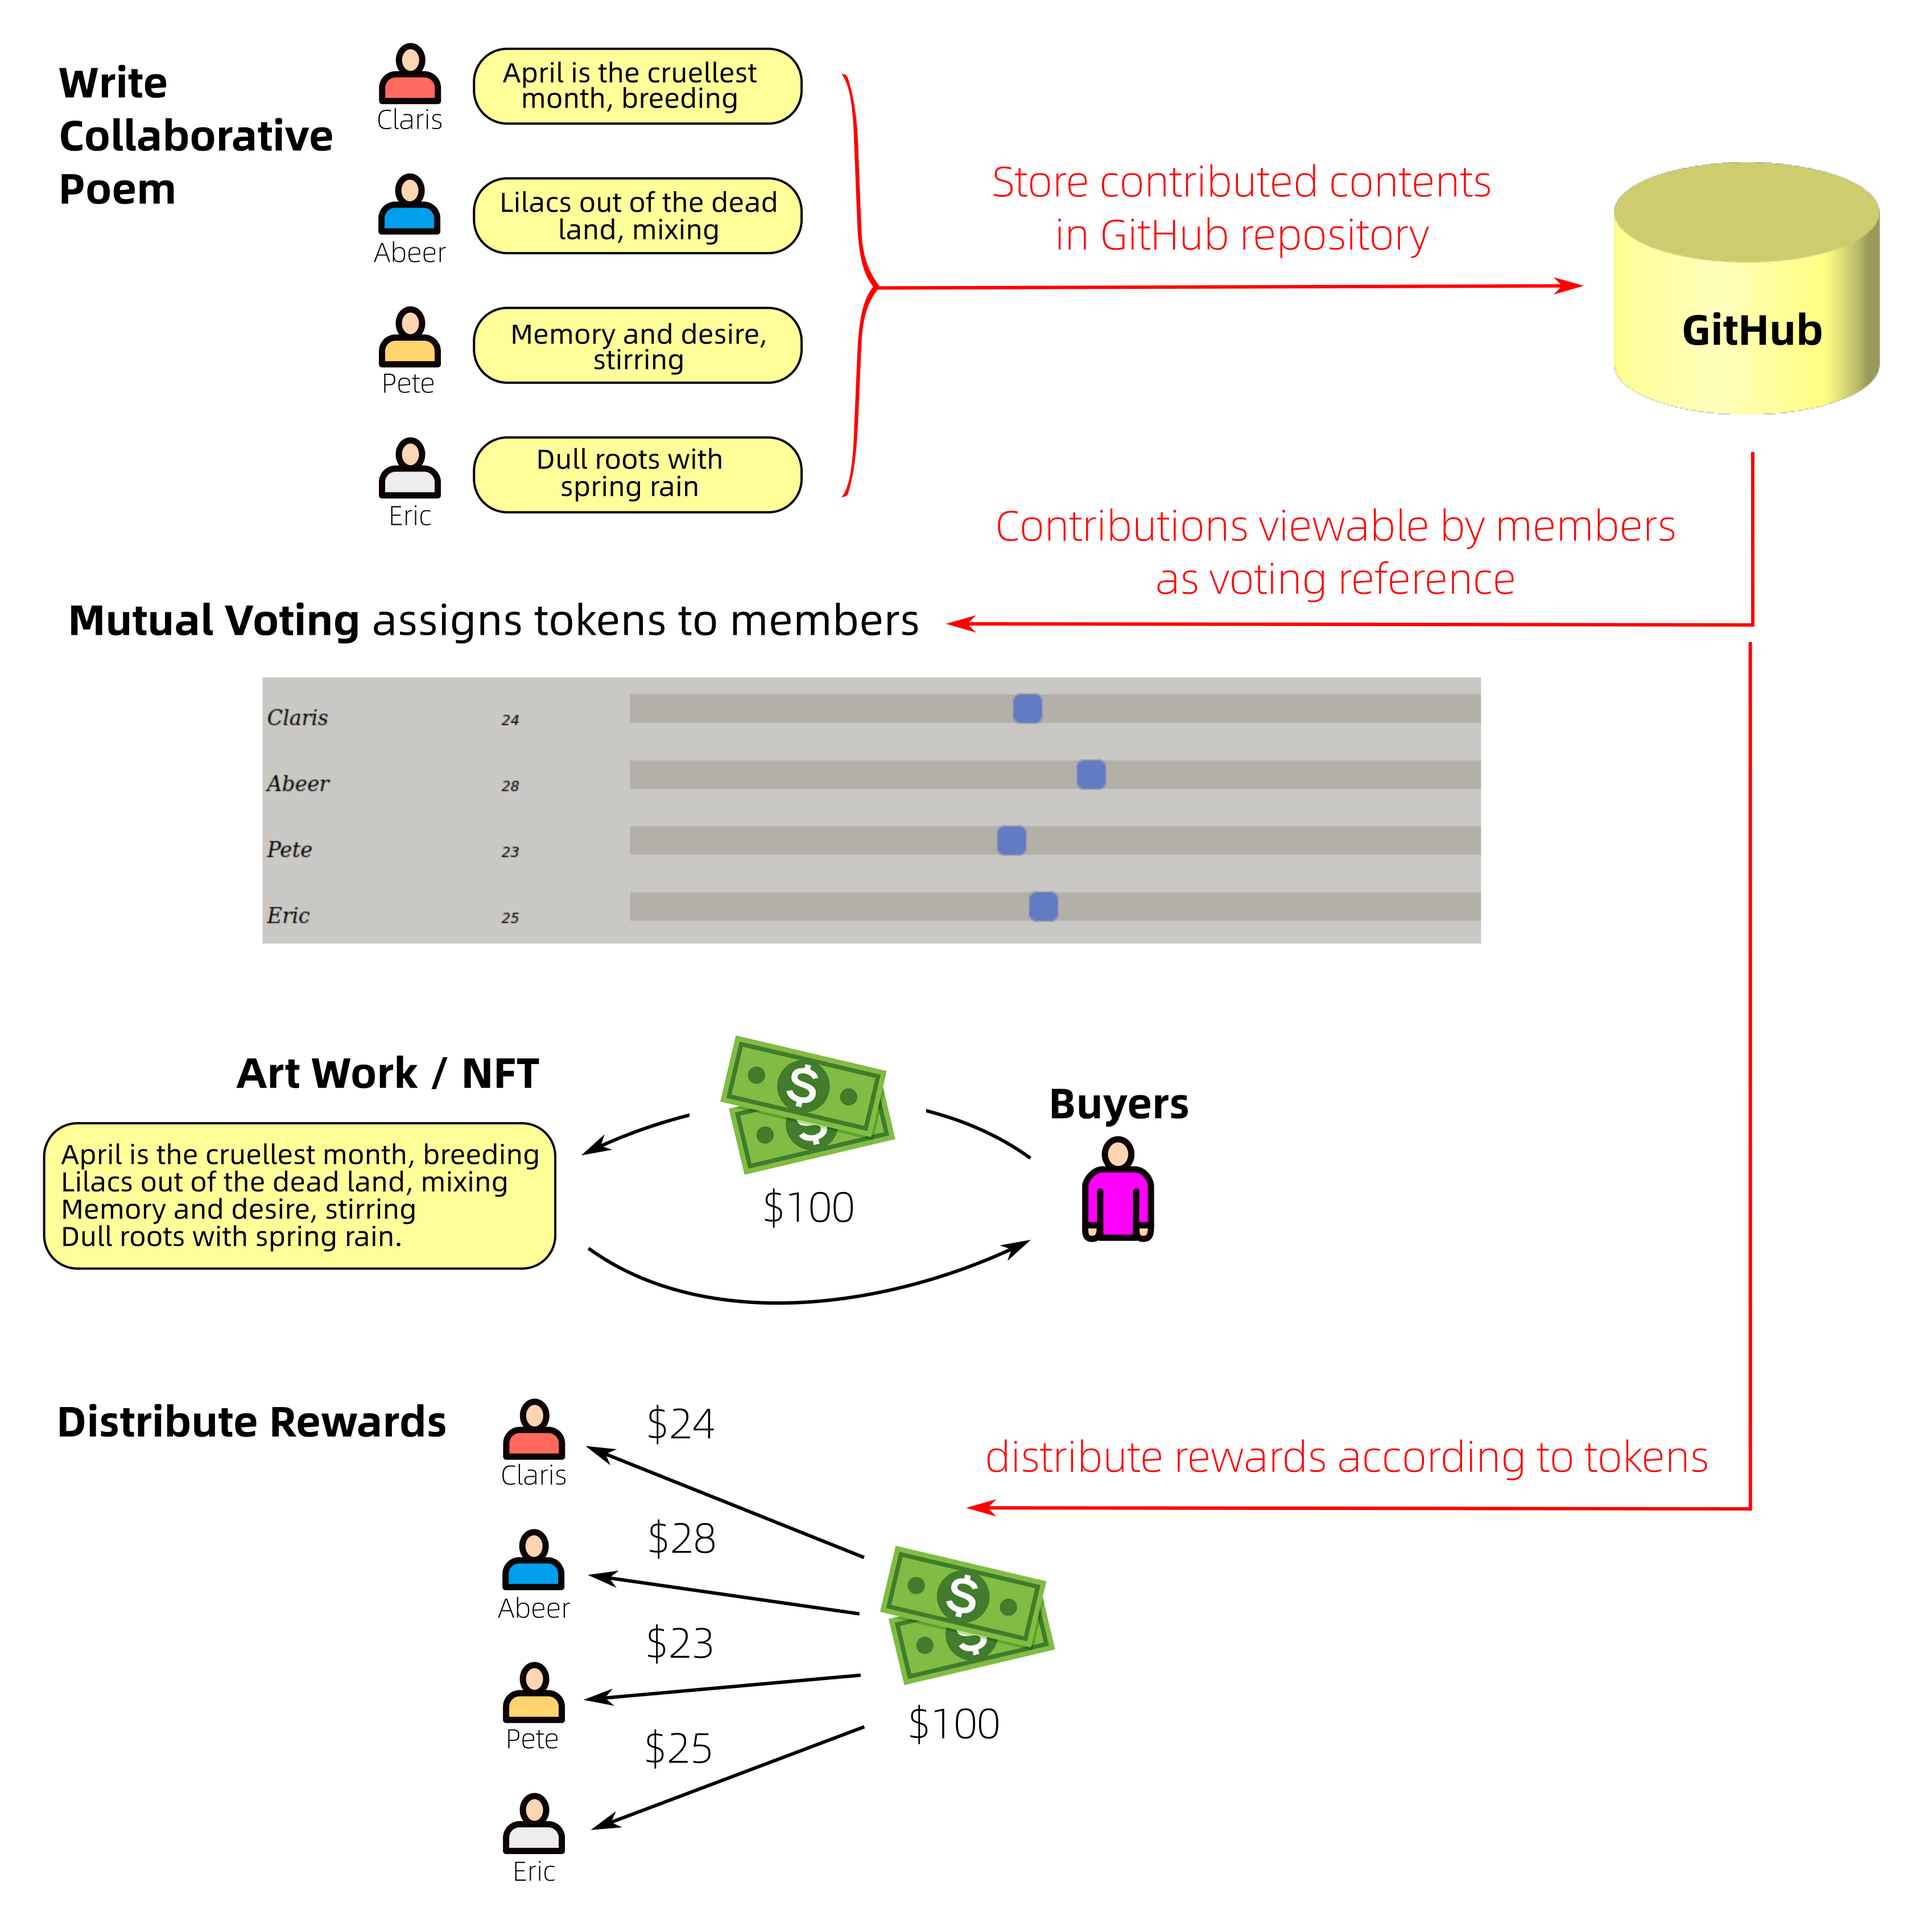
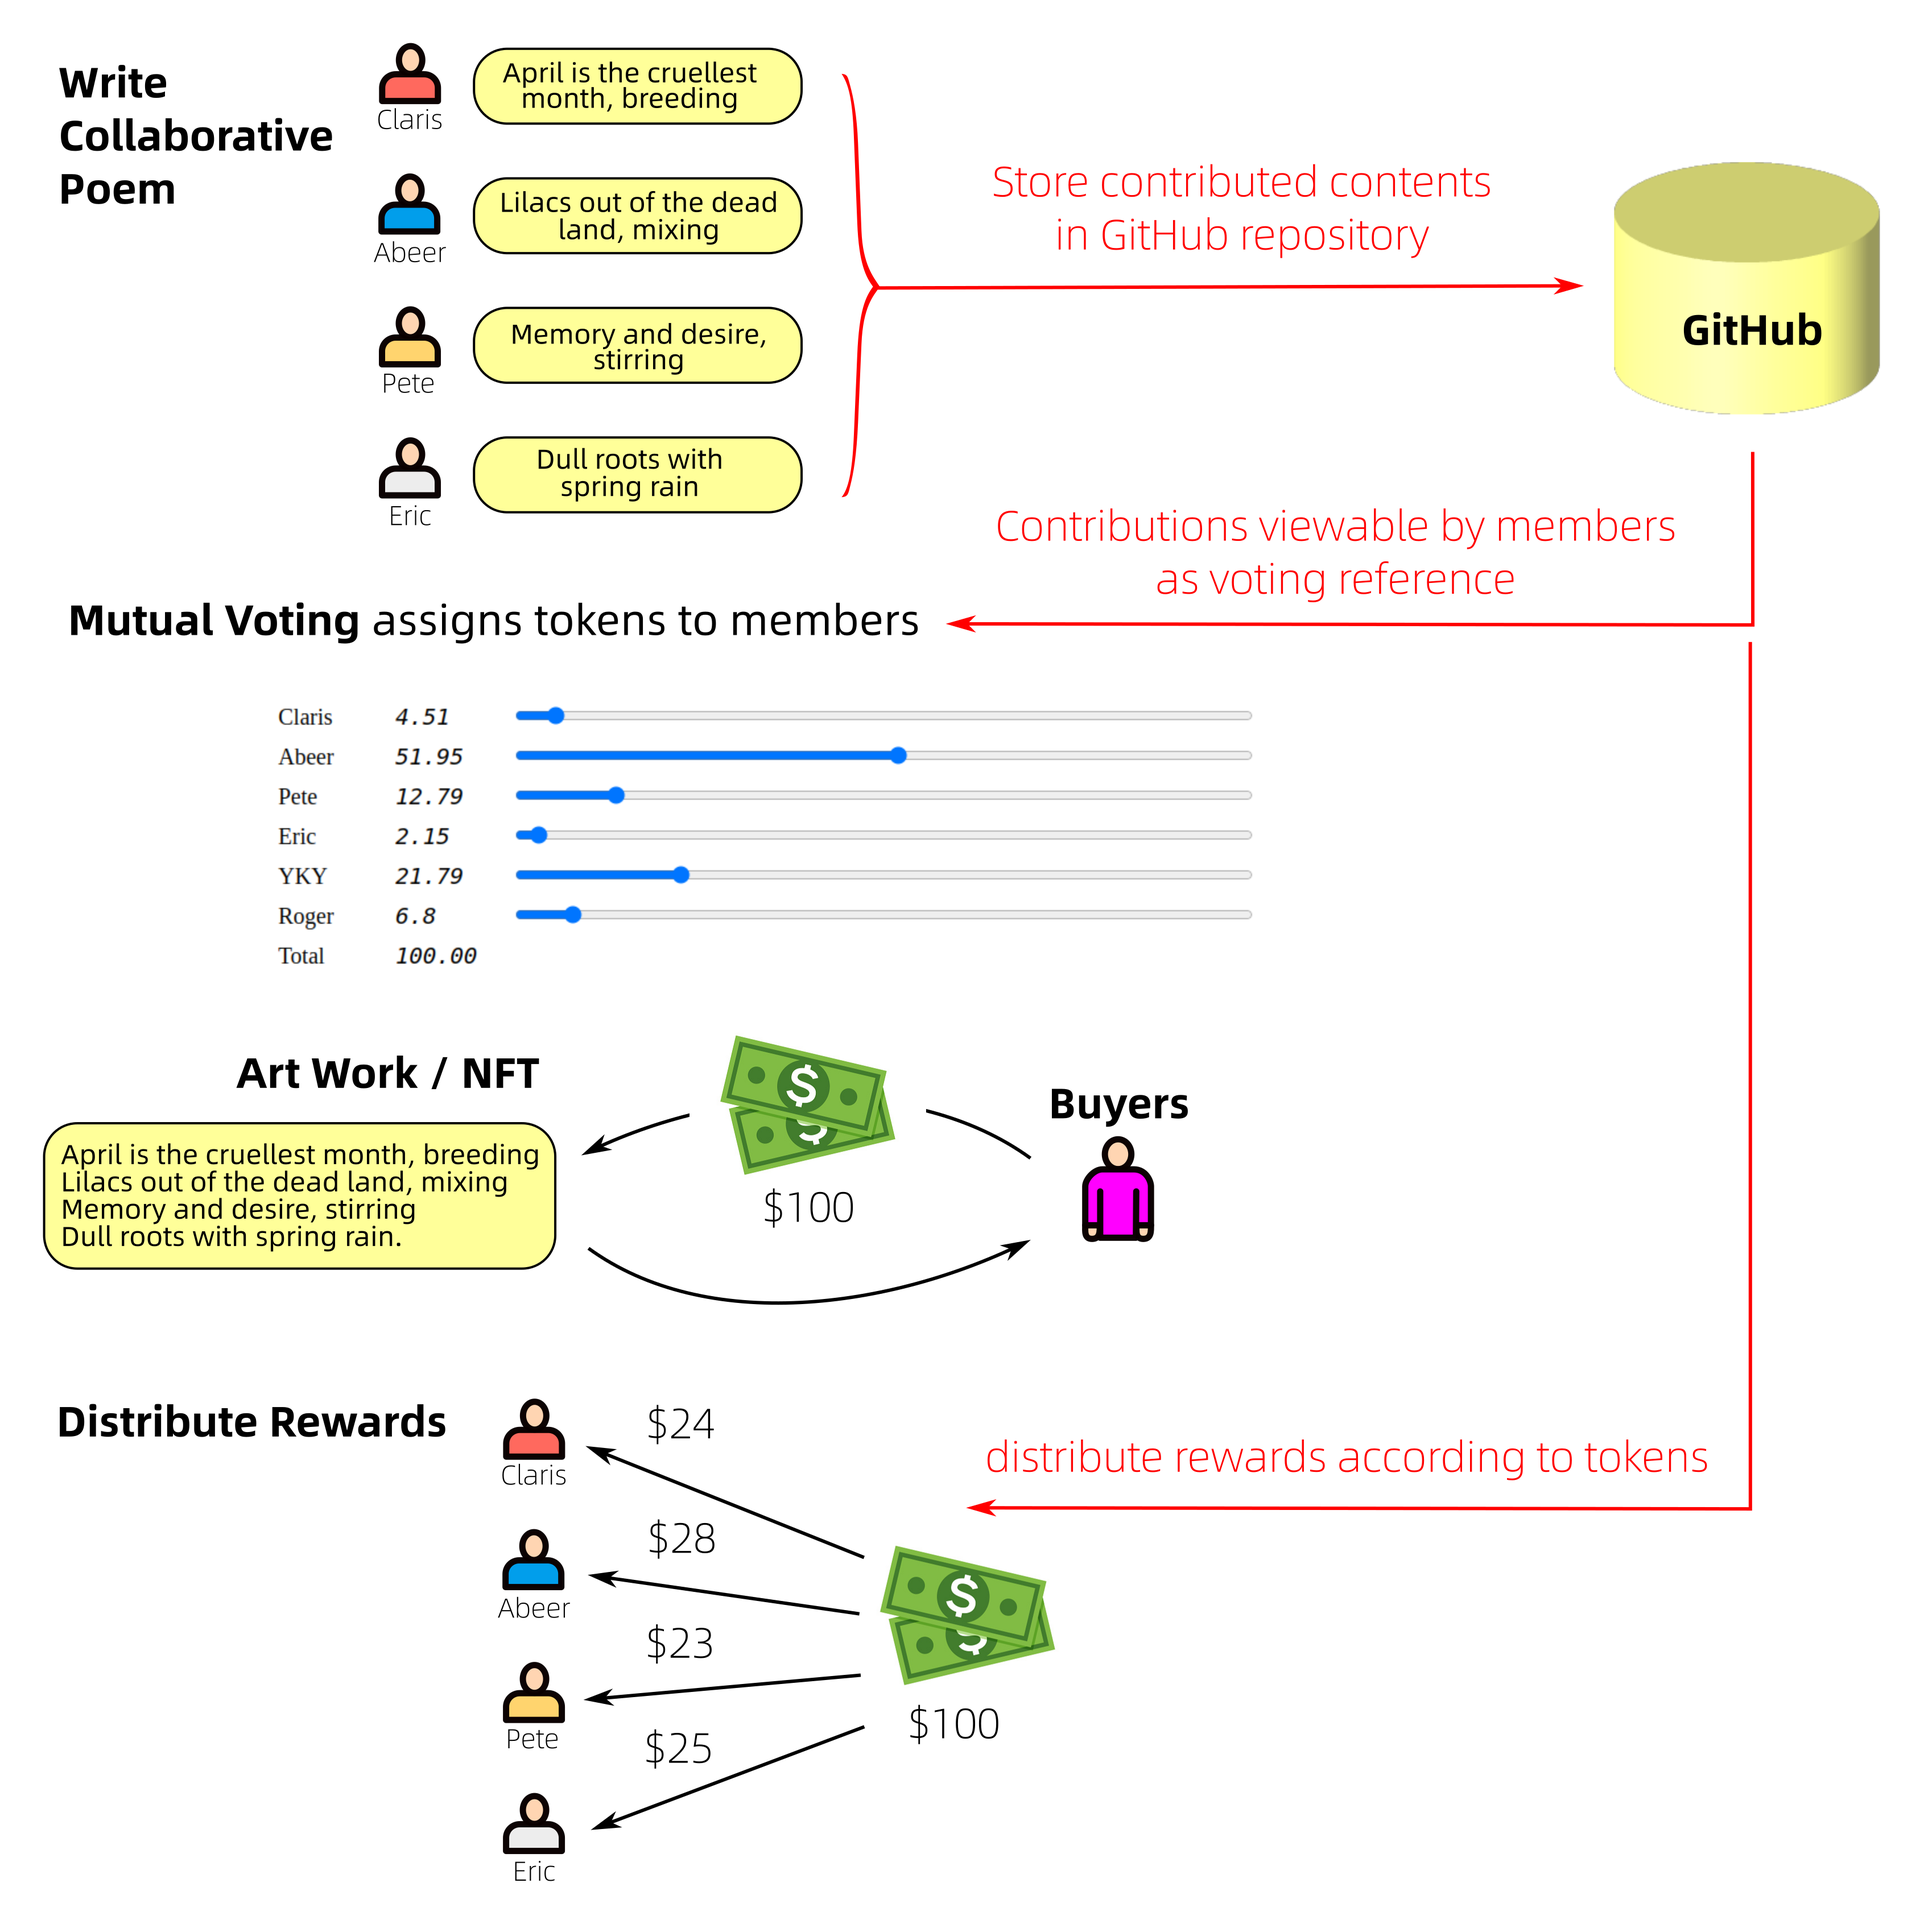
new-Github-users, bilingual

Changed region(s): [[0.1242, 0.3414, 0.7762, 0.4966]]

diff --git a/new-Github-users.html b/new-Github-users.html
@@ -1,0 +1,63 @@
+<!DOCTYPE html>
+<html lang="zh-Hans">
+
+<head>
+	<meta charset="UTF-8">
+	<title>Instructions for New Github Users</title>
+	<link rel="stylesheet" href="css/style.css">
+	<script src="http://code.jquery.com/jquery-latest.min.js"></script>
+	<script src="js/language-switcher.js" defer></script>
+</head>
+
+<body>
+
+<img src="images/crossing-the-snow-2.jpg">
+
+<div>
+<h1 lang="zh" style="display:inline-block;">渡过雪原 &mdash; Github 新使用者 指南</h1>
+<h1 lang="en" style="display:inline-block;">Snow Crossing &mdash; Guide to New Github Users</h1>
+<button id="switch-lang" style="margin-left:100px; font-size:20px;">中文 / English</button>
+</div>
+
+<hr>
+
+<h2 lang="zh">如何注册 GitHub</h2>
+<h2 lang="en">How to register GitHub</h2>
+
+	<ul lang="zh" style="list-style-type:disc">
+		<li>Visit <a href="https://www.github.com">https://www.github.com</a></li>
+		<li>注册户口（请自行按指示完成这步）</li>
+		<li>制造个人密码：</li>
+		<ul style="list-style-type:circle">
+			<li>在右上角 点击自己的 icon，再点击菜单里的 "settings"</li>
+			<li>看左边菜单，最底下有 "Developer settings"</li>
+			<li>进去之后，左边菜单，选 "Personal access tokens"</li>
+			<li>在新页面里，按 "Generate new token" 按钮</li>
+			<li>Expiration 选择「永不过期」</li>
+			<li>权限方面选择 "repo"</li>
+			<li>按最底下 "Generate token" 按钮</li>
+			<li>用电脑记下这个密码，供以后 GitHub 读写用</li>
+		</ul>
+	</ul>
+
+	<ul lang="en" style="list-style-type:disc">
+		<li>Visit <a href="https://www.github.com">https://www.github.com</a></li>
+		<li>Register for an account (please follow their web site's instructions
+		to complete this step)</li>
+		<li>Create a personal password:</li> 
+		<ul style="list-style-type:circle">
+			<li>Upper right corner, click on your icon, click "settings" from the menu</li>
+			<li>Look at menu on the left, the bottom has "Developer settings"</li>
+			<li>Entering, on the left menu, choose "Personal access tokens"</li>
+			<li>In the new page, press "Generate new token" button</li>
+			<li>Choose "Never expire"</li>
+			<li>For access rights choose "repo"</li>
+			<li>Press "Generate token" button at the bottom</li>
+			<li>Record this password in your computer, which is used for reading and writing to GitHub</li>
+		</ul>
+	</ul>
+
+<hr>
+
+</body>
+</html>

diff --git a/business-proposal-EN.html b/business-proposal-EN.html
@@ -20,9 +20,16 @@ collaboratively edited by our team.</p>
 <h3>Table of Contents</h3>
 
 <ul style="list-style-type:disc">
-	<li>Usage</li>
-	<li>Business Analysis</li>
-	<li>blah</li>
+	<li>Executive Summary</li>
+	<li>Story of the Name "Snow Crossing"</li>
+	<li>Usage of Our App</li>
+	<li>Business Model</li>
+	<li>Market(s) of Operations</li>
+	<li>SWOT Analysis</li>
+	<li>Our Team</li>
+	<li>The products or services offered.</li>
+	<li>Marketing</li>
+	<li>Financial Plan</li>
 </ul>
 
 <hr>

diff --git a/js/language-switcher.js b/js/language-switcher.js
@@ -1,0 +1,9 @@
+// Language Switcher
+
+// Initially, hide English version, default language = Chinese
+$('[lang="en"]').hide();
+
+$('#switch-lang').click(function() {
+  $('[lang="zh"]').toggle();
+  $('[lang="en"]').toggle();
+});
